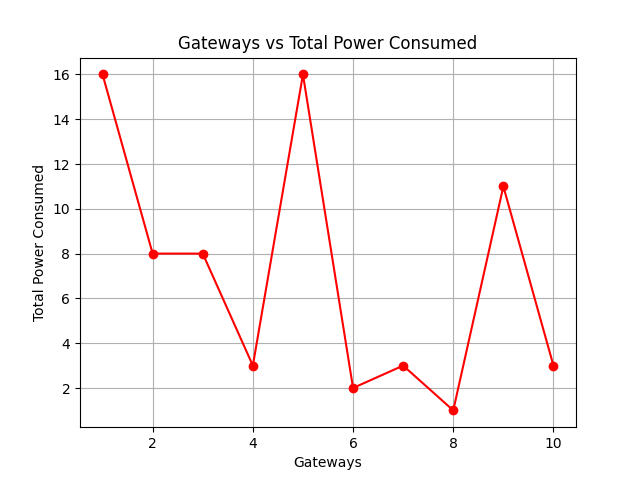
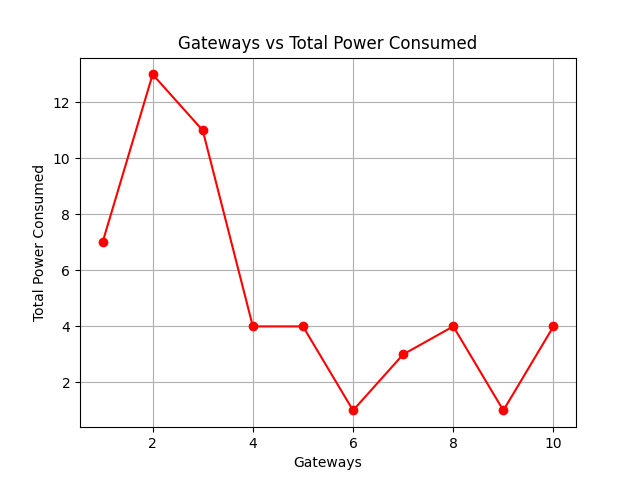
udpate plots

diff --git a/x3c.py b/x3c.py
@@ -102,28 +102,51 @@ def exact_cover(nodes, gateways, links):
         return last_optimal_gateways, last_optimal_nodes, last_optimal_links
 
 
-def nodes_gateways_links(num_nodes, num_gateways, node_data_lock = False, gateway_storage_lock = False):
+# def nodes_gateways_links(num_nodes, num_gateways, node_data_lock = False, gateway_storage_lock = False):
 
+#     if node_data_lock:
+#         data = random.randint(1, 20)
+#         nodes = [Node(f'n{i}', data, random.randint(1, 20)) for i in range(1, num_nodes + 1)]
+#     else:
+#         nodes = [Node(f'n{i}', random.randint(1, 20), random.randint(1, 20)) for i in range(1, num_nodes + 1)]
+
+#     if gateway_storage_lock:
+#         storage_capacity = random.randint(20, 100)
+#         gateways = [Gateway(f'g{i}', random.randint(1, 20), storage_capacity) for i in range(1, num_gateways + 1)]
+#     else:
+#         gateways = [Gateway(f'g{i}', random.randint(1, 20), random.randint(20, 100)) for i in range(1, num_gateways + 1)]
+
+#     links = []
+#     for node in nodes:
+#         for gateway in gateways:
+#             # Ensure the link is feasible
+#             power_needed = random.randint(1, min(node.power, gateway.power_setup))
+#             links.append(Link(node, gateway, power_needed))
+#     return nodes, gateways, links
+
+def nodes_gateways_links(num_nodes, num_gateways, node_data_lock=False, gateway_storage_lock=False):
     if node_data_lock:
-        data = random.randint(1, 20)
+        # Locking node data at a specific value
+        data = 10  # Adjust 10 as needed for the desired locked value
         nodes = [Node(f'n{i}', data, random.randint(1, 20)) for i in range(1, num_nodes + 1)]
     else:
-        nodes = [Node(f'n{i}', random.randint(1, 20), random.randint(1, 20)) for i in range(1, num_nodes + 1)]
+        # Varying node data linearly
+        nodes = [Node(f'n{i}', i * (10 / num_nodes), random.randint(1, 20)) for i in range(1, num_nodes + 1)]
 
     if gateway_storage_lock:
-        storage_capacity = random.randint(20, 100)
+        # Locking gateway storage capacity at a specific value
+        storage_capacity = 100  # Adjust 100 as needed for the desired locked value
         gateways = [Gateway(f'g{i}', random.randint(1, 20), storage_capacity) for i in range(1, num_gateways + 1)]
     else:
-        gateways = [Gateway(f'g{i}', random.randint(1, 20), random.randint(20, 100)) for i in range(1, num_gateways + 1)]
+        # Varying gateway storage capacity linearly
+        gateways = [Gateway(f'g{i}', random.randint(1, 20), i * (100 / num_gateways)) for i in range(1, num_gateways + 1)]
 
     links = []
     for node in nodes:
         for gateway in gateways:
-            # Ensure the link is feasible
             power_needed = random.randint(1, min(node.power, gateway.power_setup))
             links.append(Link(node, gateway, power_needed))
     return nodes, gateways, links
-
 
 
 def simulate(total_nodes, total_gateways, data_lock = False, storage_lock = False):
